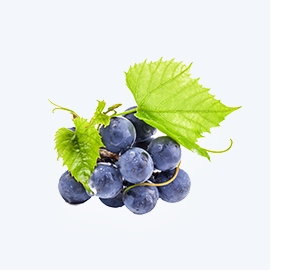
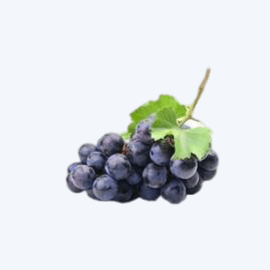
finish featured products section

Changed region(s): [[0.1481, 0.2074, 0.8593, 0.7704]]

diff --git a/index.html b/index.html
@@ -216,6 +216,248 @@
         <li class=""><a href="#">Vegetables</a></li>
         <li class=""><a href="#">FastFood</a></li>
       </ul>
+      <div class="products-wrapper">
+        <div class="product ">
+          <div class="product-image p-relative">
+            <img src="images/product/product-1.jpg" alt="" />
+            <div class="icons d-flex align-center p-absolute">
+              <a href="#">
+                <i class="icon-heart icon"></i>
+              </a>
+              <a href="#">
+                <i class="icon-retweet icon"></i>
+              </a>
+              <a href="#">
+                <i class="icon-shopping-cart icon"></i>
+              </a>
+            </div>
+          </div>
+          <div class="text txt-c">
+            <span class="product-title d-block">Crab Pool Security</span>
+            <span class="price d-block">$30.00</span>
+          </div>
+        </div>
+        <div class="product ">
+          <div class="product-image p-relative">
+            <img src="images/product/product-2.jpg" alt="" />
+            <div class="icons d-flex align-center p-absolute">
+              <a href="#">
+                <i class="icon-heart icon"></i>
+              </a>
+              <a href="#">
+                <i class="icon-retweet icon"></i>
+              </a>
+              <a href="#">
+                <i class="icon-shopping-cart icon"></i>
+              </a>
+            </div>
+          </div>
+          <div class="text txt-c">
+            <span class="product-title d-block">Crab Pool Security</span>
+            <span class="price d-block">$30.00</span>
+          </div>
+        </div>
+        <div class="product ">
+          <div class="product-image p-relative">
+            <img src="images/product/product-3.jpg" alt="" />
+            <div class="icons d-flex align-center p-absolute">
+              <a href="#">
+                <i class="icon-heart icon"></i>
+              </a>
+              <a href="#">
+                <i class="icon-retweet icon"></i>
+              </a>
+              <a href="#">
+                <i class="icon-shopping-cart icon"></i>
+              </a>
+            </div>
+          </div>
+          <div class="text txt-c">
+            <span class="product-title d-block">Crab Pool Security</span>
+            <span class="price d-block">$30.00</span>
+          </div>
+        </div>
+        <div class="product ">
+          <div class="product-image p-relative">
+            <img src="images/product/product-4.jpg" alt="" />
+            <div class="icons d-flex align-center p-absolute">
+              <a href="#">
+                <i class="icon-heart icon"></i>
+              </a>
+              <a href="#">
+                <i class="icon-retweet icon"></i>
+              </a>
+              <a href="#">
+                <i class="icon-shopping-cart icon"></i>
+              </a>
+            </div>
+          </div>
+          <div class="text txt-c">
+            <span class="product-title d-block">Crab Pool Security</span>
+            <span class="price d-block">$30.00</span>
+          </div>
+        </div>
+        <div class="product ">
+          <div class="product-image p-relative">
+            <img src="images/product/product-5.jpg" alt="" />
+            <div class="icons d-flex align-center p-absolute">
+              <a href="#">
+                <i class="icon-heart icon"></i>
+              </a>
+              <a href="#">
+                <i class="icon-retweet icon"></i>
+              </a>
+              <a href="#">
+                <i class="icon-shopping-cart icon"></i>
+              </a>
+            </div>
+          </div>
+          <div class="text txt-c">
+            <span class="product-title d-block">Crab Pool Security</span>
+            <span class="price d-block">$30.00</span>
+          </div>
+        </div>
+        <div class="product ">
+          <div class="product-image p-relative">
+            <img src="images/product/product-6.jpg" alt="" />
+            <div class="icons d-flex align-center p-absolute">
+              <a href="#">
+                <i class="icon-heart icon"></i>
+              </a>
+              <a href="#">
+                <i class="icon-retweet icon"></i>
+              </a>
+              <a href="#">
+                <i class="icon-shopping-cart icon"></i>
+              </a>
+            </div>
+          </div>
+          <div class="text txt-c">
+            <span class="product-title d-block">Crab Pool Security</span>
+            <span class="price d-block">$30.00</span>
+          </div>
+        </div>
+        <div class="product ">
+          <div class="product-image p-relative">
+            <img src="images/product/product-7.jpg" alt="" />
+            <div class="icons d-flex align-center p-absolute">
+              <a href="#">
+                <i class="icon-heart icon"></i>
+              </a>
+              <a href="#">
+                <i class="icon-retweet icon"></i>
+              </a>
+              <a href="#">
+                <i class="icon-shopping-cart icon"></i>
+              </a>
+            </div>
+          </div>
+          <div class="text txt-c">
+            <span class="product-title d-block">Crab Pool Security</span>
+            <span class="price d-block">$30.00</span>
+          </div>
+        </div>
+        <div class="product ">
+          <div class="product-image p-relative">
+            <img src="images/product/product-8.jpg" alt="" />
+            <div class="icons d-flex align-center p-absolute">
+              <a href="#">
+                <i class="icon-heart icon"></i>
+              </a>
+              <a href="#">
+                <i class="icon-retweet icon"></i>
+              </a>
+              <a href="#">
+                <i class="icon-shopping-cart icon"></i>
+              </a>
+            </div>
+          </div>
+          <div class="text txt-c">
+            <span class="product-title d-block">Crab Pool Security</span>
+            <span class="price d-block">$30.00</span>
+          </div>
+        </div>
+        <div class="product ">
+          <div class="product-image p-relative">
+            <img src="images/product/product-9.jpg" alt="" />
+            <div class="icons d-flex align-center p-absolute">
+              <a href="#">
+                <i class="icon-heart icon"></i>
+              </a>
+              <a href="#">
+                <i class="icon-retweet icon"></i>
+              </a>
+              <a href="#">
+                <i class="icon-shopping-cart icon"></i>
+              </a>
+            </div>
+          </div>
+          <div class="text txt-c">
+            <span class="product-title d-block">Crab Pool Security</span>
+            <span class="price d-block">$30.00</span>
+          </div>
+        </div>
+        <div class="product ">
+          <div class="product-image p-relative">
+            <img src="images/product/product-10.jpg" alt="" />
+            <div class="icons d-flex align-center p-absolute">
+              <a href="#">
+                <i class="icon-heart icon"></i>
+              </a>
+              <a href="#">
+                <i class="icon-retweet icon"></i>
+              </a>
+              <a href="#">
+                <i class="icon-shopping-cart icon"></i>
+              </a>
+            </div>
+          </div>
+          <div class="text txt-c">
+            <span class="product-title d-block">Crab Pool Security</span>
+            <span class="price d-block">$30.00</span>
+          </div>
+        </div>
+        <div class="product ">
+          <div class="product-image p-relative">
+            <img src="images/product/product-11.jpg" alt="" />
+            <div class="icons d-flex align-center p-absolute">
+              <a href="#">
+                <i class="icon-heart icon"></i>
+              </a>
+              <a href="#">
+                <i class="icon-retweet icon"></i>
+              </a>
+              <a href="#">
+                <i class="icon-shopping-cart icon"></i>
+              </a>
+            </div>
+          </div>
+          <div class="text txt-c">
+            <span class="product-title d-block">Crab Pool Security</span>
+            <span class="price d-block">$30.00</span>
+          </div>
+        </div>
+        <div class="product">
+          <div class="product-image p-relative">
+            <img src="images/product/product-12.jpg" alt="" />
+            <div class="icons d-flex align-center p-absolute">
+              <a href="#">
+                <i class="icon-heart icon"></i>
+              </a>
+              <a href="#">
+                <i class="icon-retweet icon"></i>
+              </a>
+              <a href="#">
+                <i class="icon-shopping-cart icon"></i>
+              </a>
+            </div>
+          </div>
+          <div class="text txt-c">
+            <span class="product-title d-block">Crab Pool Security</span>
+            <span class="price d-block">$30.00</span>
+          </div>
+        </div>
+      </div>
     </div>
   </section>
 </body>

diff --git a/css/main.css b/css/main.css
@@ -708,6 +708,7 @@ ul {
 }
 .featured-products .container ul li a {
   color: black;
+  font-size: 1.8rem;
 }
 .featured-products .container ul li.active {
   border-bottom-color: var(--primary-color);
@@ -724,5 +725,56 @@ ul {
 .featured-products .container ul li:hover::before {
   width: 100%;
 }
-
+.products-wrapper {
+  display: grid;
+  grid-template-columns: repeat(auto-fill, minmax(220px, 1fr));
+  gap: 3rem;
+}
+.products-wrapper .product {
+}
+.products-wrapper .product .product-image{
+  overflow: hidden;
+  
+}
+.products-wrapper .product .product-image img{
+  max-width: 100%;
+  width: 100%;
+}
+.products-wrapper .product .product-image .icons{
+  gap: 2rem;
+  bottom: -33px;
+  left: 50%;
+  transform: translateX(-50%);
+  transition: 0.4s;
+}
+.products-wrapper .product:hover .icons {
+  bottom: 20px;
+}
+.products-wrapper .product .product-image .icons a {
+  background-color: white;
+  border-radius: 50%;
+  width: 34px;
+  height: 34px;
+  display: flex;
+  align-items: center;
+  justify-content: center;
+  transition: var(--main-transition);
+}
+.products-wrapper .product .product-image .icons a .icon{
+  transition: var(--main-transition);
+}
+.products-wrapper .product .product-image .icons a:hover  {
+  background-color: #7fad39;
+}
+.products-wrapper .product .product-image .icons a:hover .icon {
+  color: white;
+  transform: rotate(1turn);
+}
+.products-wrapper .product .product-title {
+  margin: 10px 0;
+}
+.products-wrapper .product .price {
+  font-size: 1.8rem;
+  font-weight: 900;
+}
 /* End Featured-products */
